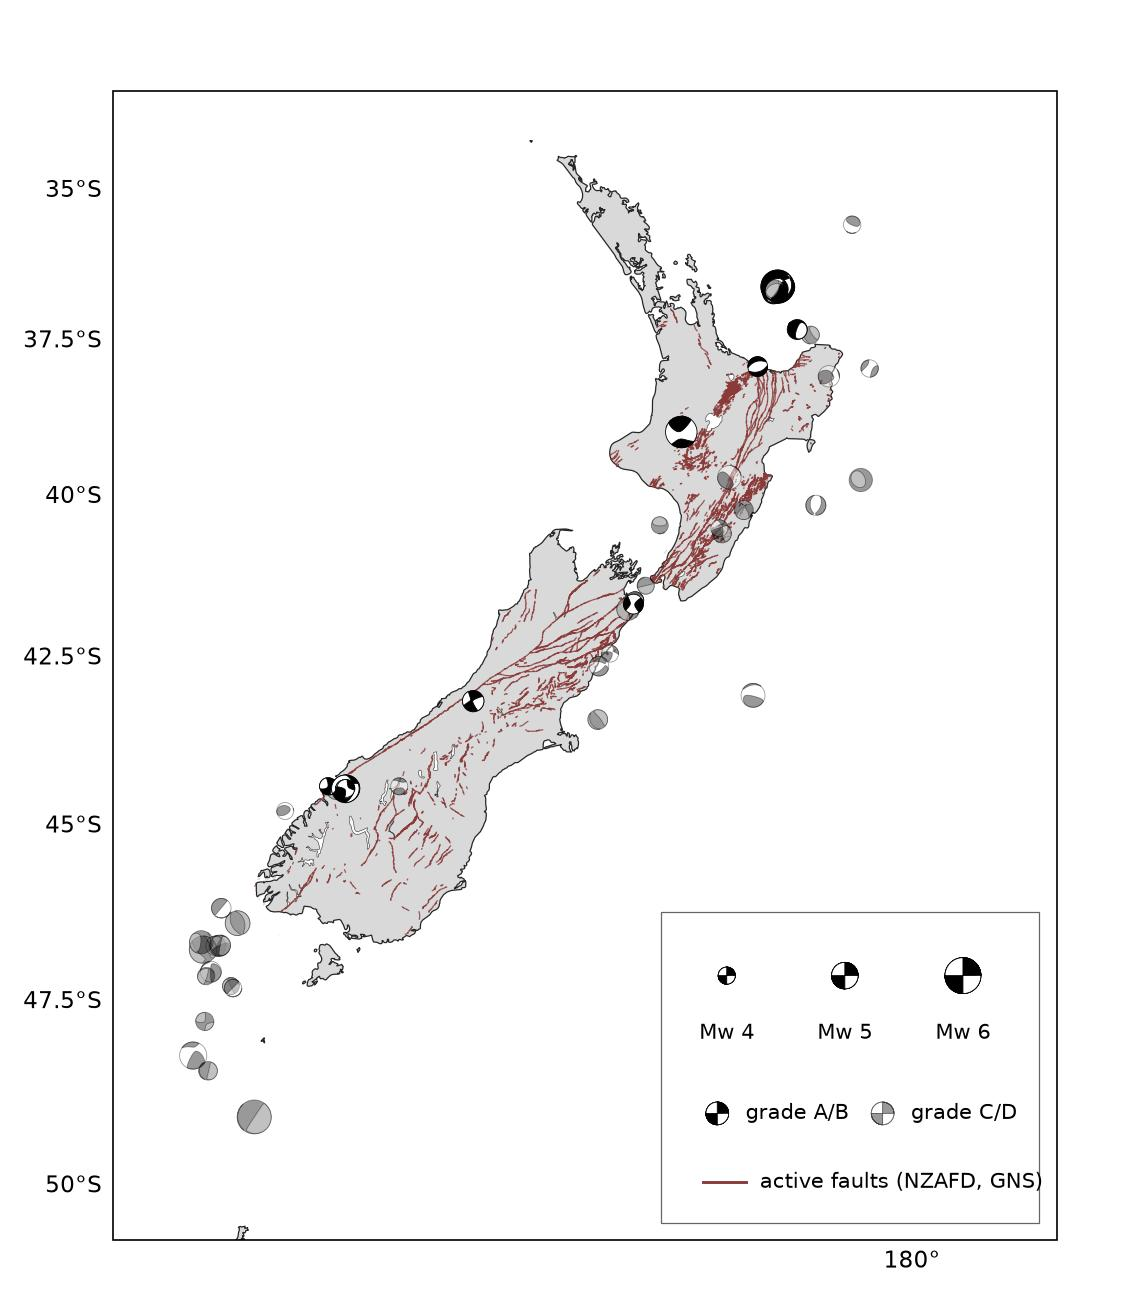
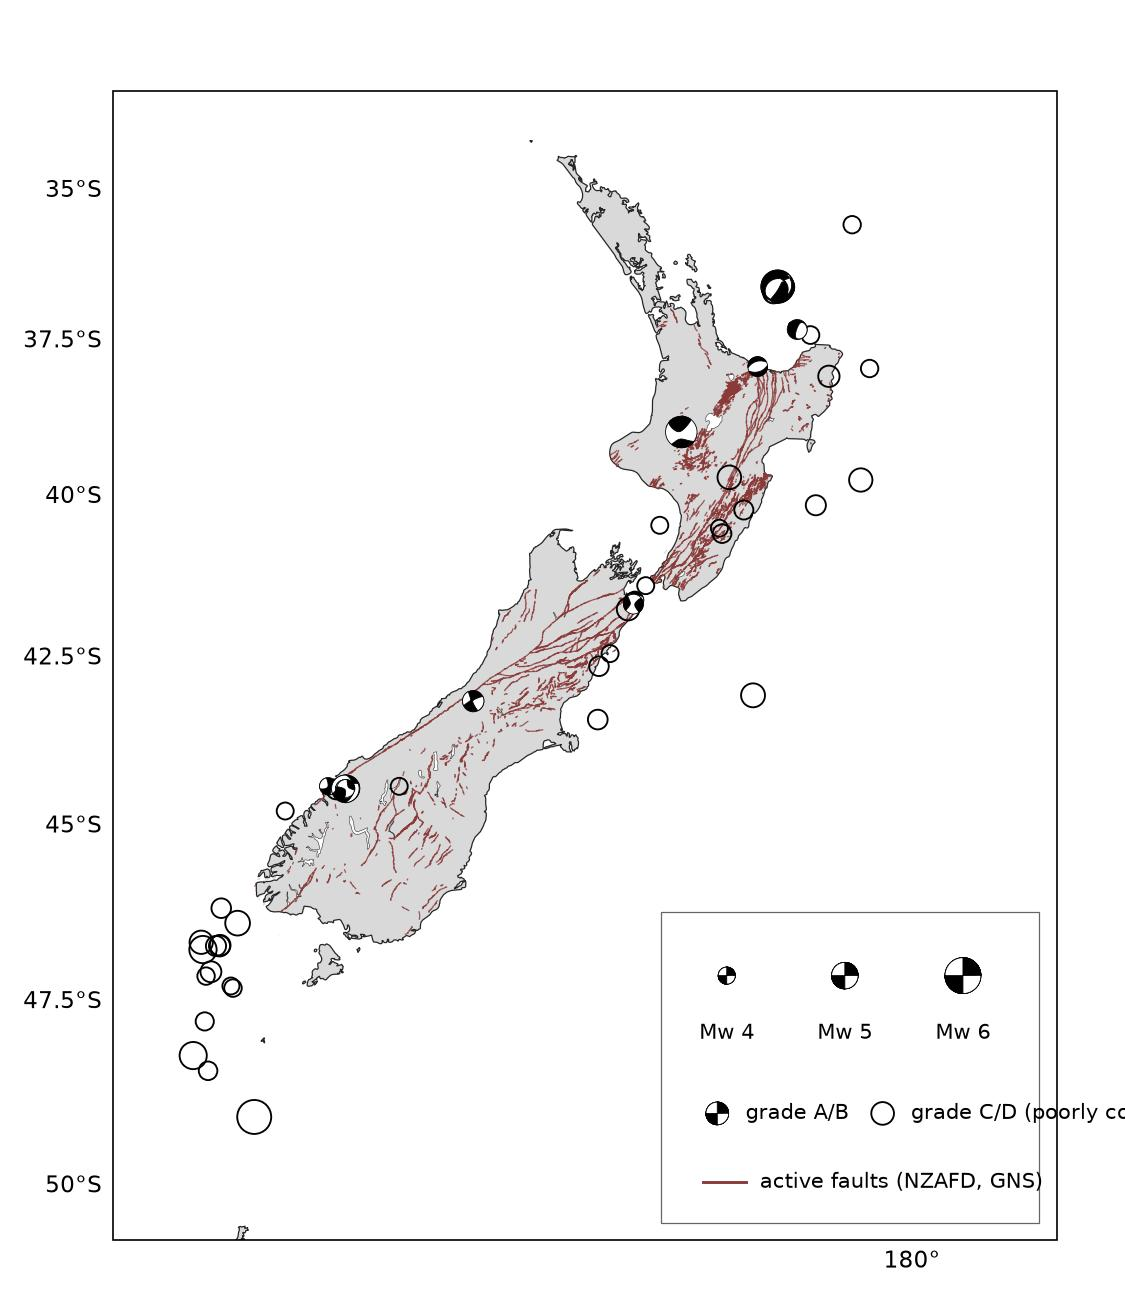
overview map: filled beachballs for A/B, open circles for poorly-constrained C/D

diff --git a/figure.py b/figure.py
@@ -134,7 +134,7 @@ def make_share_figure(
             f"depth {pref['depth_km']:g} km")
 
     # ---- displacement AOI: fit the modelled signal ------------------------
-    plane_colors = {"plane1": "#0173B2", "plane2": "#029E73"}
+    plane_colors = {"plane1": "#0072B2", "plane2": "#E69F00"}
     vmax = max(
         0.1,
         max(float(np.abs(forward[p][c]).max())
@@ -281,7 +281,7 @@ def make_share_figure(
     lines = [
         f"Okada forward models (black outline; COLOURED line = up-dip/shallowest edge, matching that plane's arc on the stability ball; arrow points down-dip): "
         f"plane 1 (blue, top row) {p1f['strike']:.0f}/{p1f['dip']:.0f}/"
-        f"{p1f['rake']:.0f}, plane 2 (green, bottom row) {p2f['strike']:.0f}/"
+        f"{p1f['rake']:.0f}, plane 2 (orange, bottom row) {p2f['strike']:.0f}/"
         f"{p2f['dip']:.0f}/{p2f['rake']:.0f}; "
         f"peak |u| {peak_cm:.2f} cm - {detect}"]
     if passes:
@@ -345,13 +345,20 @@ def make_overview_map(events_dir: Path, out_path: Path) -> Path:
         x, y = ax.projection.transform_point(lon, ev["latitude"],
                                              ccrs.PlateCarree())
         xe0, xe1, _, _ = ax.get_extent(crs=ax.projection)
-        fm = [rtp["MRR"], rtp["MTT"], rtp["MPP"],
-              rtp["MRT"], rtp["MRP"], rtp["MTP"]]
-        ball = beach(fm, xy=(x, y), width=width * (xe1 - xe0),
-                     linewidth=0.4, facecolor="black")
-        if grade not in ("A", "B"):
-            ball.set_alpha(0.40)
-        ax.add_collection(ball)
+        if grade in ("A", "B"):
+            # well-constrained: show the mechanism (filled beachball)
+            fm = [rtp["MRR"], rtp["MTT"], rtp["MPP"],
+                  rtp["MRT"], rtp["MRP"], rtp["MTP"]]
+            ax.add_collection(beach(
+                fm, xy=(x, y), width=width * (xe1 - xe0),
+                linewidth=0.4, facecolor="black"))
+        else:
+            # poorly constrained: open circle — location and size only,
+            # no mechanism the data cannot support
+            ax.add_patch(plt.Circle(
+                (x, y), radius=0.5 * width * (xe1 - xe0),
+                facecolor="none", edgecolor="black", linewidth=0.9,
+                zorder=8))
         dates.append(ev["origin_time"][:10])
     ax.set_title(
         f"Catalogue Solutions\n"
@@ -385,13 +392,12 @@ def make_overview_map(events_dir: Path, out_path: Path) -> Path:
     ax.add_collection(b1)
     ax.text(lx + 0.075 * w_ax, ly + 0.065 * h_ax, "grade A/B",
             fontsize=10, va="center", zorder=220)
-    b2 = beach(ss, xy=(lx + 0.22 * w_ax, ly + 0.065 * h_ax),
-               width=0.024 * w_ax, linewidth=0.4, facecolor="black",
-               zorder=210)
-    b2.set_alpha(0.40)
-    ax.add_collection(b2)
-    ax.text(lx + 0.25 * w_ax, ly + 0.065 * h_ax, "grade C/D",
-            fontsize=10, va="center", zorder=220)
+    ax.add_patch(plt.Circle(
+        (lx + 0.22 * w_ax, ly + 0.065 * h_ax), radius=0.012 * w_ax,
+        facecolor="none", edgecolor="black", linewidth=0.9, zorder=210))
+    ax.text(lx + 0.25 * w_ax, ly + 0.065 * h_ax,
+            "grade C/D (poorly constrained)", fontsize=10, va="center",
+            zorder=220)
     ax.plot([lx + 0.03 * w_ax, lx + 0.075 * w_ax],
             [ly + 0.005 * h_ax] * 2, "-", color="#8B3A3A", linewidth=1.4,
             zorder=210)
@@ -425,7 +431,7 @@ def plot_depth_sensitivity(solution: dict, out_path: Path) -> Path:
     dc_max_depth = max(rows, key=lambda r: r["pdc"])["depth_km"]
 
     # seaborn colorblind palette
-    c_geonet, c_vr, c_dc = "#0173B2", "#DE8F05", "#029E73"
+    c_geonet, c_vr, c_dc = "#0072B2", "#E69F00", "#CC79A7"
     ref_lines = [
         (ev["depth_km"], c_geonet,
          f"GeoNet depth {ev['depth_km']:g} km"),

diff --git a/run05_validate.py b/run05_validate.py
@@ -218,8 +218,8 @@ def main() -> None:
         print(f"  mechanism: median tensor angle "
               f"{sub.tensor_angle_deg.median():.0f} deg")
 
-    colors = {"NZ_CMT_Ristau": "#0173B2", "GlobalCMT": "#DE8F05",
-              "USGS_NEIC": "#029E73"}
+    colors = {"NZ_CMT_Ristau": "#0072B2", "GlobalCMT": "#E69F00",
+              "USGS_NEIC": "#CC79A7"}
     fig, axes = plt.subplots(2, 2, figsize=(10, 9))
     for ref, sub in df.groupby("reference"):
         c = colors.get(ref, "black")

diff --git a/map_style.py b/map_style.py
@@ -232,7 +232,7 @@ def nodal_plane_arc(strike: float, dip: float, n: int = 315):
 
 
 def inset_dc_ball(fig, rect, plane1: dict, plane2: dict,
-                  highlight_color: str = "#0173B2"):
+                  highlight_color: str = "#0072B2"):
     """Small DC beachball inset with the modelled plane (plane1) traced in
     a highlight colour over the standard nodal lines."""
     from obspy.imaging.beachball import beach
